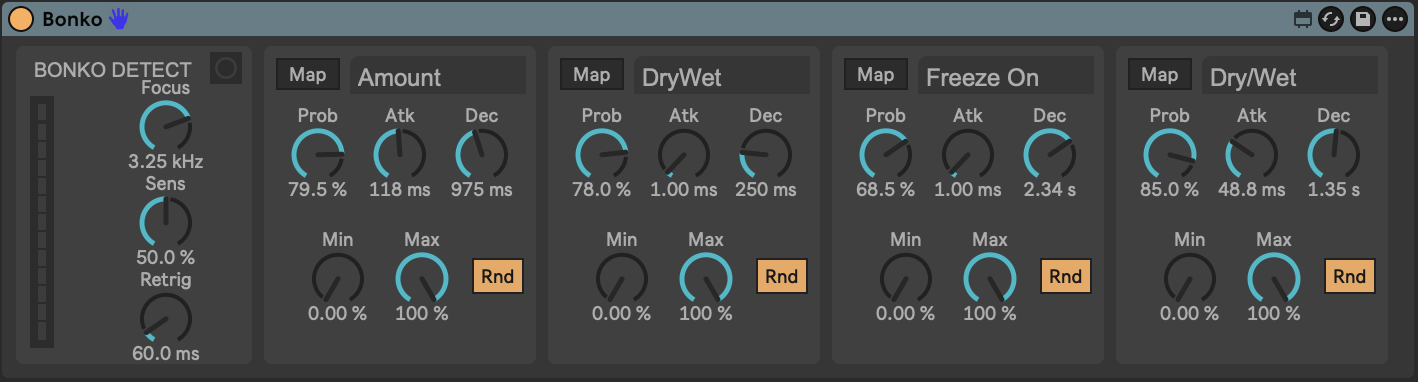
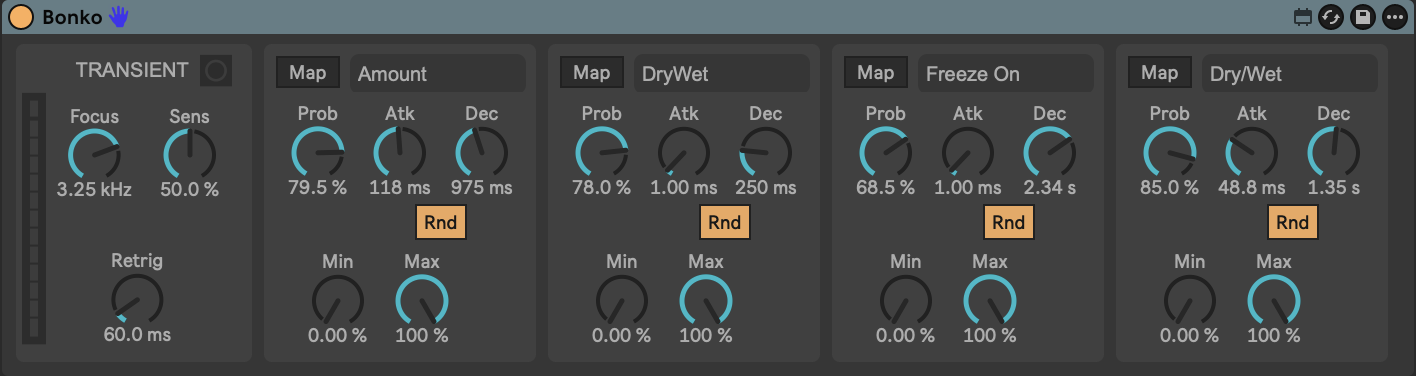
docs: update landing screenshot to post-relayout device

diff --git a/docs/index.html b/docs/index.html
@@ -113,8 +113,8 @@
 </header>
 
 <div class="wrap">
-  <img class="shot" src="bonko-device.png" width="1418" height="382"
-    alt="The Bonko device in Ableton Live: a Bonko Detect section with Focus, Sens and Retrig dials beside four slots mapped to Amount, DryWet, Freeze On and Dry/Wet, each with Prob, Atk, Dec, Min and Max dials and an active Rnd toggle.">
+  <img class="shot" src="bonko-device.png" width="1416" height="376"
+    alt="The Bonko device in Ableton Live: a Transient section with Focus, Sens and Retrig dials beside four slots mapped to Amount, DryWet, Freeze On and Dry/Wet, each with Prob, Atk and Dec dials, an active Rnd toggle, and Min and Max dials.">
   <p class="caption">Every pick attack fires the LED — and every mapped parameter follows.</p>
 </div>
 